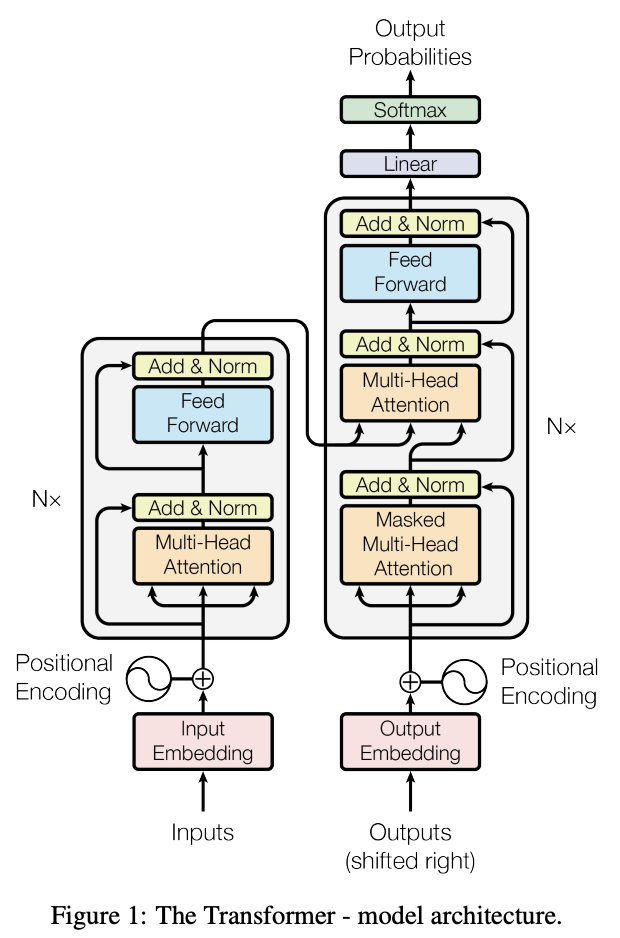
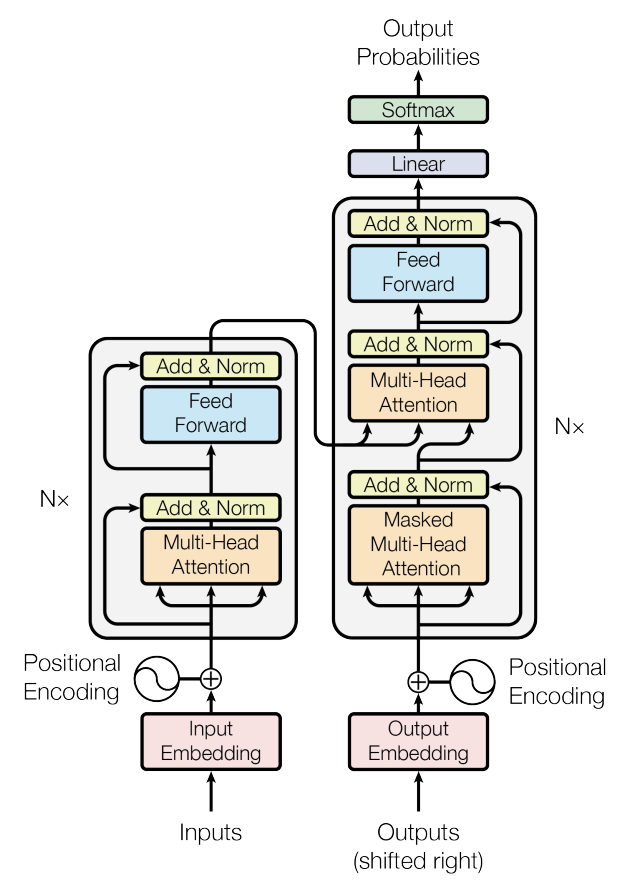
render photos with updated diagram

Changed region(s): [[0.0306, 0.0, 0.9806, 1.0], [0.8887, 0.4257, 0.9194, 0.4865]]

diff --git a/geometric_deep_learning/README.md b/geometric_deep_learning/README.md
@@ -2,19 +2,17 @@
 
 Recent work in the mathematical foundations of machine learning has attempted classify many common deep learning architectures according to their underlying network geometry. This field, known as *geometric deep learning*, may prove fruitful to the study of emergent holographic geometry in tensor networks.  
 
-<div style="text-align: center;">
-  <div style="display: inline-block; width: 260px; margin-right: 15px; vertical-align: top;">
-    <img src="../pics/Abstract_Composition_LeCorbusier.jpg" alt="Abstract Composition by Le Corbusier" width="260" style="display: block;">
-    <p style="text-align: center; font-size: 0.9em; margin-top: 5px;">
-      Abstract Composition (1927), Le Corbusier<br/>
-      (Charles-Édouard Jeanneret)
-    </p>
-  </div>
-  <div style="display: inline-block; width: 260px; vertical-align: top;">
-    <img src="../pics/Transformer.png" alt="Transformer" width="260" style="display: block;">
-    <p style="text-align: center; font-size: 0.9em; margin-top: 5px;">Transformer Architecture (2017), Vaswani, et al.</p>
-  </div>
-</div>
+<p align="center">
+  <span style="display:inline-block; margin: 0 10px; text-align: center; vertical-align: top;">
+    <img src="../pics/Abstract_Composition_LeCorbusier.jpg" alt="Abstract Composition by Le Corbusier" width="260"><br>
+    <sub>Abstract Composition (1927), Le Corbusier (Charles-Édouard Jeanneret)</sub>
+  </span>
+  &nbsp;&nbsp;&nbsp;
+  <span style="display:inline-block; margin: 0 10px; text-align: center; vertical-align: top;">
+    <img src="../pics/Transformer.png" alt="Transformer" width="260"><br>
+    <sub>Transformer Architecture (2017), Vaswani, et al.</sub>
+  </span>
+</p>
 
 ## Non-Euclidean Optimization
 
